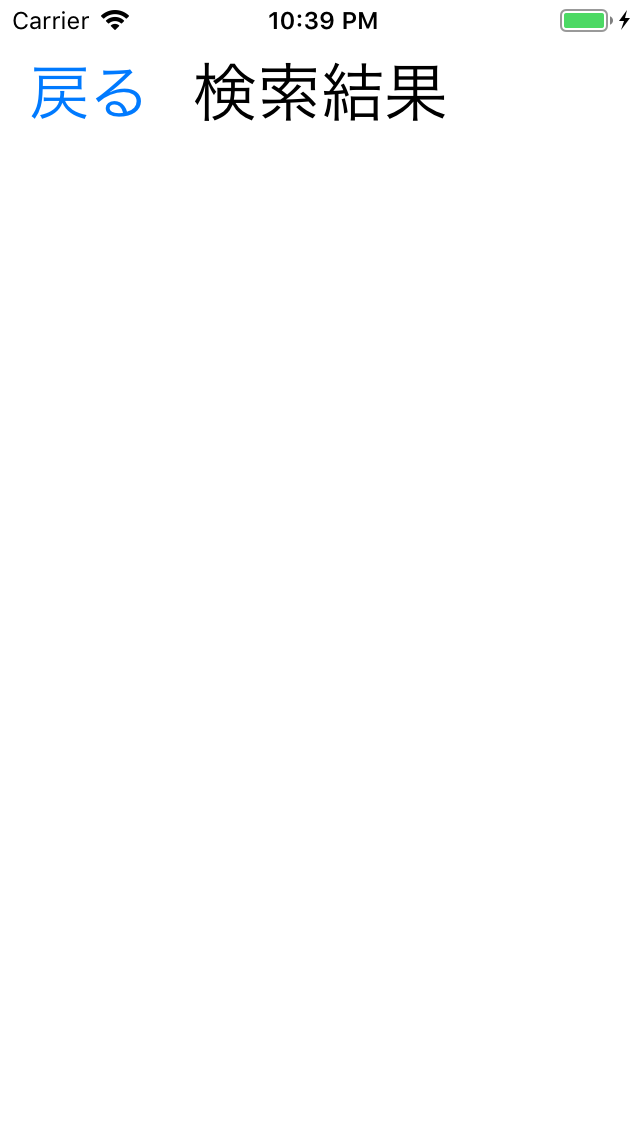
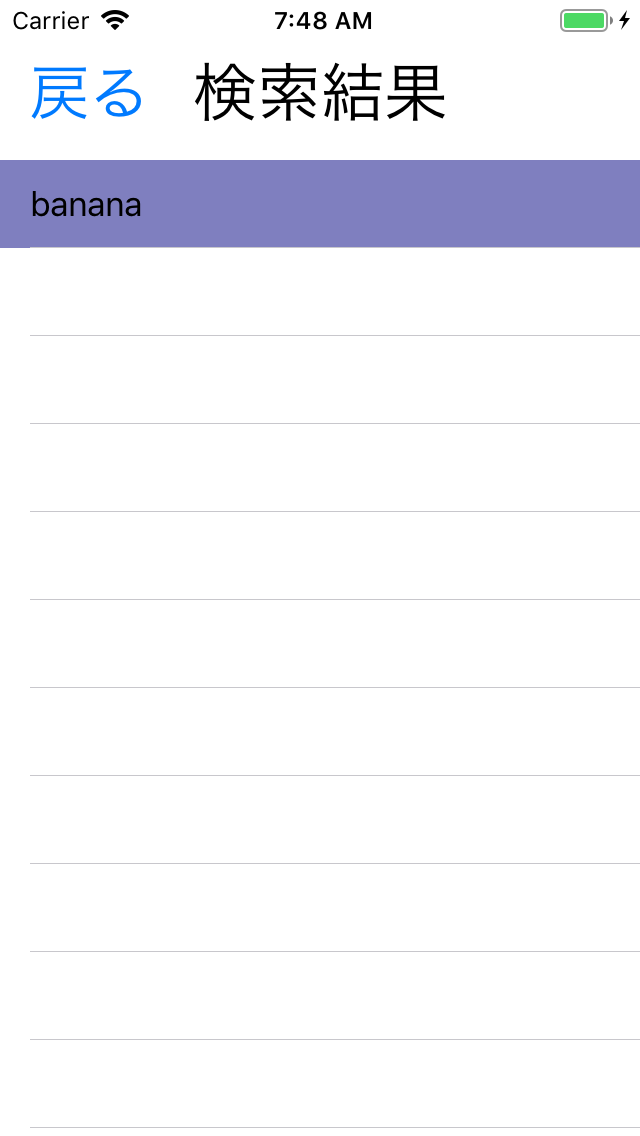
単語検索画面に英単語名での検索機能追加（前方一致・後方一致・完全一致に対応）

Changed region(s): [[0.0, 0.1232, 1.0, 0.2157], [0.4062, 0.0, 0.5938, 0.0308]]

diff --git a/EnglishWords/EnglishWords/SearchWordViewController.swift b/EnglishWords/EnglishWords/SearchWordViewController.swift
@@ -9,10 +9,22 @@
 import Foundation
 import UIKit
 
-class SearchWordViewController: UIViewController{
+class SearchWordViewController: UIViewController, UITextFieldDelegate{
 
+    @IBOutlet var wordNameTextField: UITextField!
+    @IBOutlet var wordSearchCondSegmentedControl: UISegmentedControl!
+    
+    //検索条件のリスト
+    var querylist: [String] = []
+    
     override func viewDidLoad() {
         super.viewDidLoad()
+        
+        // ボタンを選択中にする場所を指定
+        wordSearchCondSegmentedControl.selectedSegmentIndex = 0
+        // ボタン選択時にボタンを選択状態にするかどうかの設定
+        wordSearchCondSegmentedControl.isMomentary = false
+        
     }
     
     override func didReceiveMemoryWarning() {
@@ -20,10 +32,17 @@ class SearchWordViewController: UIViewController{
     }
     
     @IBAction func buttonTapped(sender: UIButton) {
+        print("buttontapped:")
+        print(sender.tag)
         if(sender.tag == 0){
             performSegue(withIdentifier: "returnToDictionaryViewController",sender: nil)
         }else if(sender.tag == 1){
-            performSegue(withIdentifier: "toSearchResultViewController",sender: nil)
+            if(wordSearchCondSegmentedControl.selectedSegmentIndex == -1){
+                showAlert(mes: "単語の検索条件を指定してください")
+            }else{
+                makeQuery()
+                performSegue(withIdentifier: "toSearchResultViewController",sender: nil)
+            }
         }
     }
     
@@ -32,7 +51,53 @@ class SearchWordViewController: UIViewController{
         if (segue.identifier == "returnToDictionaryViewController") {
             let _: DictionaryViewController = (segue.destination as? DictionaryViewController)!
         }else if(segue.identifier == "toSearchResultViewController"){
-            let _: SearchResultViewController = (segue.destination as? SearchResultViewController)!
+            let srVC: SearchResultViewController = (segue.destination as? SearchResultViewController)!
+            srVC.querylist = querylist
         }
+    }
+    
+    //指定された条件をもとにRealmへの検索条件を作成するメソッド
+    func makeQuery(){
+        print("makeQuery")
+        print(":" + wordNameTextField.text!)
+        //単語名検索の欄に何か入力されている場合、それに則り検索条件を作る
+        if(!(wordNameTextField.text?.isEmpty)!){
+            var wordquery = "wordName "
+            switch wordSearchCondSegmentedControl.selectedSegmentIndex {
+            case 0: //前方一致
+                wordquery.append("BEGINSWITH '")
+                wordquery.append(wordNameTextField.text!)
+                wordquery.append("'")
+            case 1: //後方一致
+                wordquery.append("ENDSWITH '")
+                wordquery.append(wordNameTextField.text!)
+                wordquery.append("'")
+            case 2: //完全一致
+                wordquery.append("= '")
+                wordquery.append(wordNameTextField.text!)
+                wordquery.append("'")
+            default:
+                //
+                print(wordSearchCondSegmentedControl.selectedSegmentIndex)
+            }
+            print(wordquery)
+            querylist.append(wordquery)
+        }
+        
+    }
+    
+    //アラートを出すメソッド
+    func showAlert(mes: String) {
+        // アラートを作成
+        let alert = UIAlertController(
+            title: "エラー",
+            message: mes,
+            preferredStyle: .alert)
+        
+        // アラートにボタンをつける
+        alert.addAction(UIAlertAction(title: "OK", style: .default))
+        
+        // アラート表示
+        self.present(alert, animated: true, completion: nil)
     }
 }

diff --git a/EnglishWords/EnglishWords/SearchResultViewController.swift b/EnglishWords/EnglishWords/SearchResultViewController.swift
@@ -8,15 +8,62 @@
 
 import Foundation
 import UIKit
+import RealmSwift
 
-class SearchResultViewController: UIViewController{
+class SearchResultViewController: UIViewController, UITableViewDelegate, UITableViewDataSource {
+    
+    //検索条件のリスト
+    var querylist: [String] = []
+    //検索結果の単語リスト
+    var wordlist: [Word] = []
+    
+    @IBOutlet var table:UITableView!
+
     
     override func viewDidLoad() {
         super.viewDidLoad()
+        print("SearchResultViewController:")
+        print(querylist)
+        //データベース内に保存してあるWordを取得し、検索条件のリストで絞る
+        let realm: Realm = try! Realm()
+        var results = realm.objects(Word.self).sorted(byKeyPath: "wordName", ascending: true)
+        
+        for i in 0..<querylist.count {
+            results = results.filter(querylist[i])
+        }
+        wordlist = Array(results)
+        
+        if(wordlist.count == 0){
+            //検索結果無し、エラーアラート出して戻させる
+            showAlert(mes: "検索結果がありません")
+        }
+        
     }
     
     override func didReceiveMemoryWarning() {
         super.didReceiveMemoryWarning()
+    }
+    
+    //Table Viewのセルの数を指定
+    func tableView(_ table: UITableView,
+                   numberOfRowsInSection section: Int) -> Int {
+        return wordlist.count
+    }
+    
+    //各セルの要素を設定する
+    func tableView(_ table: UITableView,
+                   cellForRowAt indexPath: IndexPath) -> UITableViewCell {
+        // tableCell の ID で UITableViewCell のインスタンスを生成
+        let cell = table.dequeueReusableCell(withIdentifier: "tablecell",
+                                                 for: indexPath)
+        // Tag番号  で UILabel インスタンスの生成
+        let word = wordlist[indexPath.row]
+        let label = cell.viewWithTag(1) as! UILabel
+        label.numberOfLines = 0
+        label.text = word.wordName
+        cell.backgroundColor = UIColor(red: 0.0, green: 0.0, blue: 0.5, alpha: 0.5)
+            
+        return cell
     }
     
     @IBAction func buttonTapped(sender: UIButton) {
@@ -30,5 +77,20 @@ class SearchResultViewController: UIViewController{
         if (segue.identifier == "returnSearchWordViewController") {
             let _: SearchWordViewController = (segue.destination as? SearchWordViewController)!
         }
+    }
+    
+    //アラートを出すメソッド
+    func showAlert(mes: String) {
+        // アラートを作成
+        let alert = UIAlertController(
+            title: "エラー",
+            message: mes,
+            preferredStyle: .alert)
+        
+        // アラートにボタンをつける
+        alert.addAction(UIAlertAction(title: "OK", style: .default))
+        
+        // アラート表示
+        self.present(alert, animated: true, completion: nil)
     }
 }

diff --git a/EnglishWords/EnglishWords/DictionaryViewController.swift b/EnglishWords/EnglishWords/DictionaryViewController.swift
@@ -32,7 +32,7 @@ class DictionaryViewController: UIViewController, UITableViewDelegate, UITableVi
     override func viewDidLoad() {
         super.viewDidLoad()
         
-        //データベース内に保存してあるWordNoteBookを全て取得
+        //データベース内に保存してあるWordを全て取得
         let realm: Realm = try! Realm()
         let results = realm.objects(Word.self).sorted(byKeyPath: "wordName", ascending: true)
         wordlist = Array(results)
